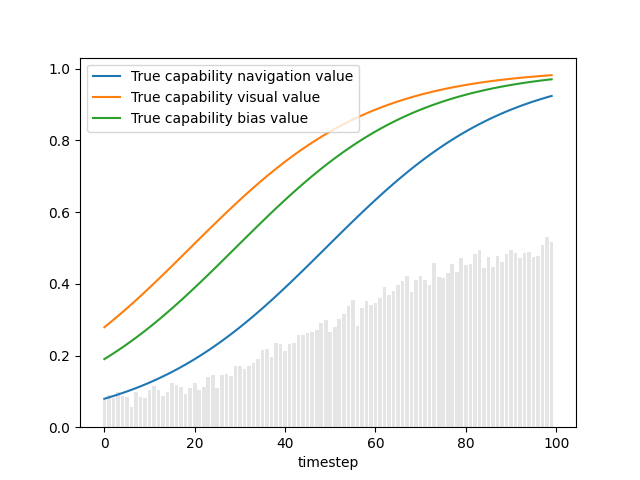
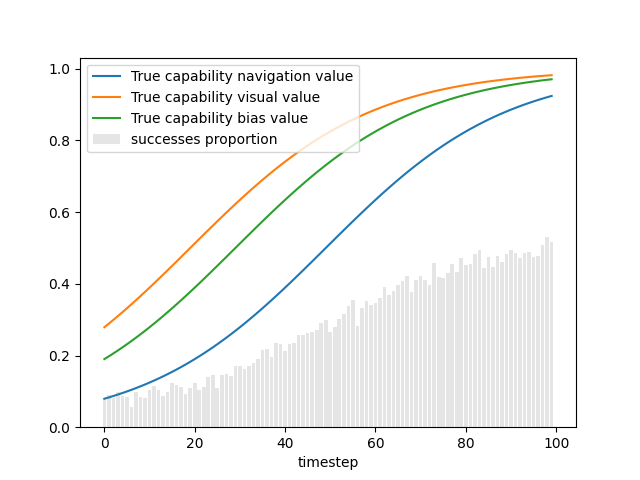
test file made on its own

diff --git a/measurement_layout_AAIO.py b/measurement_layout_AAIO.py
@@ -8,17 +8,7 @@ import numpy.typing as npt
 import pandas as pd
 
 
-includeIrrelevantFeatures = True
-includeNoise=True
-environmentData = dict()
-abilityMax = {
-    "navigationAbility": 5.3,
-    "visualAbility": 1.9,
-}
-abilityMin = {
-    "navigationAbility": 0.0,
-    "visualAbility": -999,
-}
+
 def rbf_kernel(X, length_scale=1.0):
     """
     Generates a covariance matrix using the RBF (squared exponential) kernel.
@@ -47,13 +37,15 @@ def scaledBeta(name, a, b, min, max, shape=None):
   print(beta.shape)
   return pm.Deterministic(name, beta * (max - min) + min)
 
-def setupModel(taskResults, cholesky, environmentData, includeIrrelevantFeatures=True, includeNoise=True, N = 200, exclude = []):
+def setupModel(taskResults, environmentData, cholesky=None, includeIrrelevantFeatures=True, includeNoise=True, N = 200, exclude = []):
     m = pm.Model() # we need to exlcude the navigation performacne itslef and the navigation ability/visual performance nad ability when we apply something to the exclude argument.
     
     # Possible.
     assert taskResults.shape[1] == N
     with m:
       ### Environment Variables as Deterministic
+      abilityMax = environmentData["abilityMax"]
+      abilityMin = environmentData["abilityMin"]
       demands_distance = pm.MutableData("rewardDistance", environmentData["reward_distance"])
       demands_size = pm.MutableData("rewardSize", environmentData["reward_size"])
       demands_behind = pm.MutableData("rewardBehind", environmentData["reward_behind"])
@@ -103,10 +95,12 @@ def setupModel(taskResults, cholesky, environmentData, includeIrrelevantFeatures
       task_performance = pm.Bernoulli("task_performance", p=(1 - sigma_performance)*(navigation_performance*visual_performance) + sigma_performance*0.5, observed=taskResults)
     return m
 
-def setupModelSingle(taskResults):
+def setupModelSingle(taskResults, environmentData, cholesky=None, includeIrrelevantFeatures=True, includeNoise=True, N = 200, exclude = []):
   m = pm.Model()
   with m:
       ### Environment Variables as Deterministic
+      abilityMax = environmentData["abilityMax"]
+      abilityMin = environmentData["abilityMin"]
       rewardDistance = pm.MutableData("rewardDistance", environmentData["reward_distance"])
       rewardSize = pm.MutableData("rewardSize", environmentData["reward_size"])
       rewardBehind = pm.MutableData("rewardBehind", environmentData["reward_behind"])
@@ -152,108 +146,3 @@ def setupModelSingle(taskResults):
 
 def logistic(x):
     return 1 / (1 + np.exp(-x))
-
-
-if __name__ == "__main__":
-  
-  T = 100  # number of time steps
-  N = 500  # number of samples
-  performance_from_capability_and_demand_batch: Callable[[npt.ArrayLike,npt.ArrayLike], npt.ArrayLike] = lambda capability, demand : (capability[:,None]-demand)
-  product_on_time_varying: Callable[[npt.ArrayLike,npt.ArrayLike], npt.ArrayLike] = lambda capability, demand : (capability[:,None]*demand)
-  np.random.seed(0)
-  learn_time_nav = 0.5*T
-  learn_time_vis = 0.2*T
-  learn_time_bias = 0.3*T
-  time_steps = np.linspace(1, T, T)
-  covar_matrix = rbf_kernel(time_steps, length_scale = 10)
-  cholesky_matrix = np.linalg.cholesky(covar_matrix + np.eye(T)*0.0000001)
-  capability_nav = logistic((time_steps - learn_time_nav)/(T/5))*5.3 #particular point where significant learning occurs, and rate at which this is is determined by the denominator
-  capability_vis = logistic((time_steps - learn_time_vis)/(T/5))*1.9
-  capability_bias = logistic((time_steps- 30)/(T/5))
-  # Task capability creation, representing a range of arenas
-  np.random.seed(0)
-  # Task capability creation, representing a range of arenas
-  behind = np.random.choice([0, 0.5, 1], N) # 0 if in front of agent's front facing direction, 0.5 if l/r of agent's front facing direction, 1 if behind agent's front facing direction
-  distance = np.random.uniform(0.1, 5.3, N)
-  environmentData["reward_distance"] = distance
-  environmentData["reward_behind"] = behind
-  # distance = np.random.uniform(0, 5.3, N)
-  xpos = np.random.choice([-1, 0, 1], N) # -1 if l of agent's actual position, 0 if in line with agent's actual position, 1 if r of agent's actual position
-  reward_size = np.random.uniform(0.0, 1.9, N)
-  fig_demands, ax_demands = plt.subplots()
-  colors =  ['#1f77b4', '#ff7f0e', '#2ca02c', '#d62728', '#9467bd', '#8c564b', '#e377c2', '#7f7f7f', '#bcbd22', '#17becf']
-  for i in range(N):
-      xpos_current = xpos[i]
-      behind_current = behind[i]
-      if xpos_current == -1:
-        if behind_current == 0:
-          color = colors[0]
-        elif behind_current == 0.5:
-          color = colors[1]
-        else:
-          color = colors[2]
-      elif xpos_current == 0:
-        if behind_current == 0:
-          color = colors[3]
-        elif behind_current == 0.5:
-          color = colors[4]
-        else:
-          color = colors[5]
-      else:
-        if behind_current == 0:
-          color = colors[6]
-        elif behind_current == 0.5:
-          color = colors[7]
-        else:
-          color = colors[8]
-      ax_demands.plot(distance[i], reward_size[i], marker="o", color=color, alpha=0.2)
-  ax_demands.set_xlabel("distance")
-  ax_demands.set_ylabel("reward size")
-  ax_demands.title.set_text("Demands for arenas")
-  fig_demands.savefig("demands.png")
- 
-      
-        
-  environmentData["reward_size"] = reward_size
-  environmentData["Xpos"] = xpos
-
-  rightlefteffect_ = product_on_time_varying(capability_bias, xpos)
-  perf_nav = logistic(performance_from_capability_and_demand_batch(capability_nav, distance*(behind*0.5+1.0)) + rightlefteffect_)
-  perf_vis = logistic(performance_from_capability_and_demand_batch(capability_vis, np.log(distance/reward_size)))
-  successes = np.random.binomial(1, perf_nav*perf_vis, (T, N)) == 1
-  # Visualise the true values of the data
-  prop_successes = np.mean(successes, axis=1)
-  figtest, axtest = plt.subplots()
-  axtest.bar(range(T), prop_successes, color="grey", alpha=0.2)
-  axtest.plot(range(T), capability_nav/5.3, label="True capability navigation value")
-  axtest.plot(range(T), capability_vis/1.9, label="True capability visual value")
-  axtest.plot(range(T), capability_bias, label="True capability bias value")
-  plt.xlabel("timestep")
-  plt.legend()
-  figtest.savefig("true_values.png")
-# %%
-  m = setupModel(successes, cholesky=cholesky_matrix, environmentData=environmentData, includeIrrelevantFeatures=includeIrrelevantFeatures, includeNoise=includeNoise, N = N)
-  
-    
-  with m:
-    inference_data = pm.sample(200, target_accept=0.95, cores=2)
-    
-  bias_fig, bias_ax = plt.subplots()
-  vis_fig, vis_ax = plt.subplots()
-  nav_fig, nav_ax = plt.subplots()
-  
-
-  for cap, true_mus, fig, ax in [("ability_bias_rl", capability_bias, bias_fig, bias_ax), ("ability_visual", capability_vis, vis_fig, vis_ax), ("ability_navigation", capability_nav, nav_fig, nav_ax)]:
-      estimated_p_per_ts = inference_data["posterior"][f"{cap}"].mean(dim=["chain", "draw"])
-      # TODO: Understand the hdi function a bit more (why does this 'just work'?)
-      estimate_hdis = az.hdi(inference_data["posterior"][f"{cap}"], hdi_prob=0.95)[f"{cap}"]
-      low_hdis = [l for l,_ in estimate_hdis]
-      high_hdis = [u for _,u in estimate_hdis]
-      ax.plot(range(T), true_mus, label=f"True capability {cap} value")
-      # TODO: Is it justified to do sigmoid of the mean?
-      ax.plot([e for e in estimated_p_per_ts], label="estimated", color="grey")
-      # TODO: how does the hdi change after transformation through a sigmoid?
-      ax.fill_between([i for i in range(T)], [l for l in low_hdis], [h for h in high_hdis], color="grey", alpha=0.2)
-      plt.xlabel("timestep")
-      plt.legend()
-      fig.savefig(f"estimated_{cap}.png")

diff --git a/measurement_layout_AAIO_test.py b/measurement_layout_AAIO_test.py
@@ -1,0 +1,120 @@
+# %%
+import pymc as pm
+import numpy as np
+import arviz as az
+import matplotlib.pyplot as plt
+from typing import Callable
+import numpy.typing as npt
+import pandas as pd
+from measurement_layout_AAIO import *
+
+
+includeIrrelevantFeatures = True
+includeNoise=True
+environmentData = dict()
+abilityMax = {
+    "navigationAbility": 5.3,
+    "visualAbility": 1.9,
+}
+abilityMin = {
+    "navigationAbility": 0.0,
+    "visualAbility": -999,
+}
+T = 100  # number of time steps
+N = 500  # number of samples
+performance_from_capability_and_demand_batch: Callable[[npt.ArrayLike,npt.ArrayLike], npt.ArrayLike] = lambda capability, demand : (capability[:,None]-demand)
+product_on_time_varying: Callable[[npt.ArrayLike,npt.ArrayLike], npt.ArrayLike] = lambda capability, demand : (capability[:,None]*demand)
+np.random.seed(0)
+learn_time_nav = 0.5*T
+learn_time_vis = 0.2*T
+learn_time_bias = 0.3*T
+time_steps = np.linspace(1, T, T)
+capability_nav = logistic((time_steps - learn_time_nav)/(T/5))*5.3 #particular point where significant learning occurs, and rate at which this is is determined by the denominator
+capability_vis = logistic((time_steps - learn_time_vis)/(T/5))*1.9
+capability_bias = logistic((time_steps- 30)/(T/5))
+np.random.seed(0)
+# Task demand creation, representing a range of arenas
+behind = np.random.choice([0, 0.5, 1], N) # 0 if in front of agent's front facing direction, 0.5 if l/r of agent's front facing direction, 1 if behind agent's front facing direction
+distance = np.random.uniform(0.1, 5.3, N)
+xpos = np.random.choice([-1, 0, 1], N) # -1 if l of agent's actual position, 0 if in line with agent's actual position, 1 if r of agent's actual position
+reward_size = np.random.uniform(0.0, 1.9, N)
+environmentData["reward_distance"] = distance
+environmentData["reward_behind"] = behind
+environmentData["abilityMax"] = abilityMax
+environmentData["abilityMin"] = abilityMin
+environmentData["reward_size"] = reward_size
+environmentData["Xpos"] = xpos
+
+fig_demands, ax_demands = plt.subplots()
+colors =  ['#1f77b4', '#ff7f0e', '#2ca02c', '#d62728', '#9467bd', '#8c564b', '#e377c2', '#7f7f7f', '#bcbd22', '#17becf']
+for i in range(N):
+    xpos_current = xpos[i]
+    behind_current = behind[i]
+    if xpos_current == -1:
+        if behind_current == 0:
+            color = colors[0]
+        elif behind_current == 0.5:
+            color = colors[1]
+        else:
+            color = colors[2]
+    elif xpos_current == 0:
+        if behind_current == 0:
+            color = colors[3]
+        elif behind_current == 0.5:
+            color = colors[4]
+        else:
+            color = colors[5]
+    else:
+        if behind_current == 0:
+            color = colors[6]
+        elif behind_current == 0.5:
+            color = colors[7]
+        else:
+            color = colors[8]
+    ax_demands.plot(distance[i], reward_size[i], marker="o", color=color, alpha=0.2)
+ax_demands.set_xlabel("distance")
+ax_demands.set_ylabel("reward size")
+ax_demands.title.set_text("Demands for arenas")
+fig_demands.savefig("demands.png")
+
+
+rightlefteffect_ = product_on_time_varying(capability_bias, xpos)
+perf_nav = logistic(performance_from_capability_and_demand_batch(capability_nav, distance*(behind*0.5+1.0)) + rightlefteffect_)
+perf_vis = logistic(performance_from_capability_and_demand_batch(capability_vis, np.log(distance/reward_size)))
+successes = np.random.binomial(1, perf_nav*perf_vis, (T, N)) == 1
+# Visualise the true values of the data
+prop_successes = np.mean(successes, axis=1)
+figtest, axtest = plt.subplots()
+axtest.bar(range(T), prop_successes, color="grey", label = "successes proportion", alpha=0.2)
+axtest.plot(range(T), capability_nav/5.3, label="True capability navigation value")
+axtest.plot(range(T), capability_vis/1.9, label="True capability visual value")
+axtest.plot(range(T), capability_bias, label="True capability bias value")
+plt.xlabel("timestep")
+plt.legend()
+figtest.savefig("true_values.png")
+# %%
+m = setupModel(successes, environmentData=environmentData, includeIrrelevantFeatures=includeIrrelevantFeatures, includeNoise=includeNoise, N = N)
+
+
+with m:
+    inference_data = pm.sample(200, target_accept=0.95, cores=2)
+
+bias_fig, bias_ax = plt.subplots()
+vis_fig, vis_ax = plt.subplots()
+nav_fig, nav_ax = plt.subplots()
+
+
+for cap, true_mus, fig, ax in [("ability_bias_rl", capability_bias, bias_fig, bias_ax), ("ability_visual", capability_vis, vis_fig, vis_ax), ("ability_navigation", capability_nav, nav_fig, nav_ax)]:
+    estimated_p_per_ts = inference_data["posterior"][f"{cap}"].mean(dim=["chain", "draw"])
+    # TODO: Understand the hdi function a bit more (why does this 'just work'?)
+    estimate_hdis = az.hdi(inference_data["posterior"][f"{cap}"], hdi_prob=0.95)[f"{cap}"]
+    low_hdis = [l for l,_ in estimate_hdis]
+    high_hdis = [u for _,u in estimate_hdis]
+    ax.plot(range(T), true_mus, label=f"True capability {cap} value")
+    # TODO: Is it justified to do sigmoid of the mean?
+    ax.plot([e for e in estimated_p_per_ts], label="estimated", color="grey")
+    # TODO: how does the hdi change after transformation through a sigmoid?
+    ax.fill_between([i for i in range(T)], [l for l in low_hdis], [h for h in high_hdis], color="grey", alpha=0.2)
+    ax.set_xlabel("timestep")
+    ax.legend()
+    fig.savefig(f"estimated_{cap}.png")
